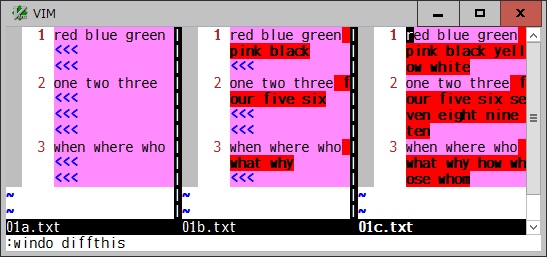
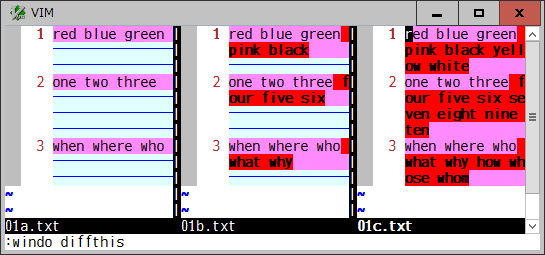
Update 2.1

Changed region(s): [[0.0, 0.0, 0.9982, 0.9882], [0.0, 0.7137, 0.0312, 0.7686]]

diff --git a/README.md b/README.md
@@ -20,16 +20,17 @@ lines between windows.
 This plugin is called each time the `diff` option is set or reset on a window.
 It counts the number of screen lines required to align the position of each
 line between all the diff mode windows in a tab page, and then fill them with
-virtual lines on each window. As for those virtual lines, the "virtual text",
-which has been implemented in some of vim post-9.0 patches and nvim 0.6.0,
-is used to draw `<<<` in `hl-NonText` highlight "below" the actual lines.
-Accordingly, each corresponding line will be aligned side-by-side on the same
-screen position.
+virtual lines on each window. As a virtual line, the "virtual text" feature,
+implemented in a vim post-9.0 patch and nvim 0.6.0, is used. Those virtual
+lines are shown as diff filler lines, specified in `diff` item in `fillchars`
+option (default: `-`) using `hl-DiffDelete` highlight, at "below" the actual
+lines. Accordingly, each corresponding line will be aligned side-by-side on
+the same screen position.
 
 ![demo02](demo02.png)
 
 This plugin, when called, only checks the limited range of the current visible
-and its upper/lower lines of a window, not all the text lines, to draw the
+and its upper/lower lines of a window, not all the text lines, to show the
 virtual lines. Each time a cursor is moved on to other ranges upon scrolling
 or searching, or each time a window is resized, the `WinScrolled` event is
 triggered and then the new lines will be checked in that limited range and the
@@ -38,8 +39,8 @@ the number of lines to be checked and then the time consumed are always
 constant.
 
 You can also use the `list` option for a normal non-diff mode window. This
-plugin is called to find all the list mode windows, show the required virtual
-lines, and align each line between windows.
+plugin is called to find all the list mode windows, show `<<<` in `hl-NonText`
+highlight as virtual lines, and align each line between windows.
 
 ![demo03](demo03.png)
 
